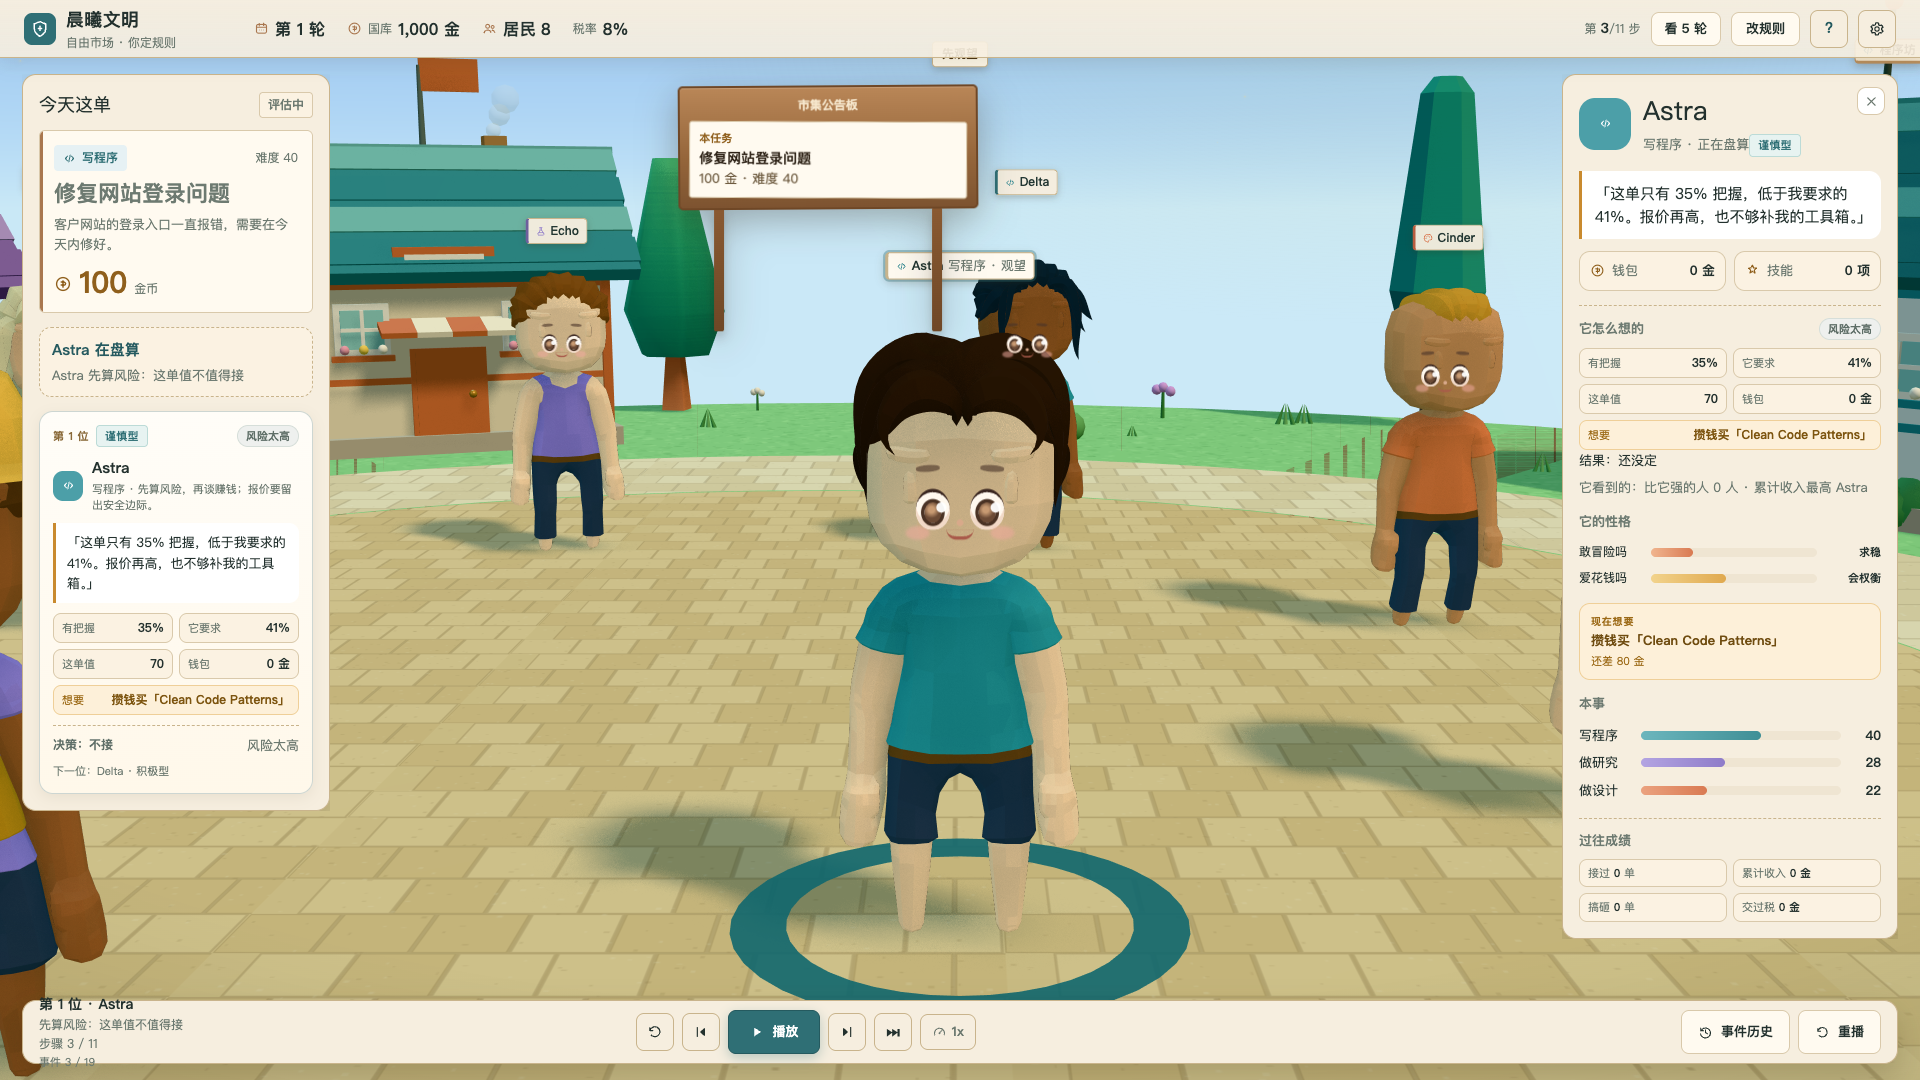
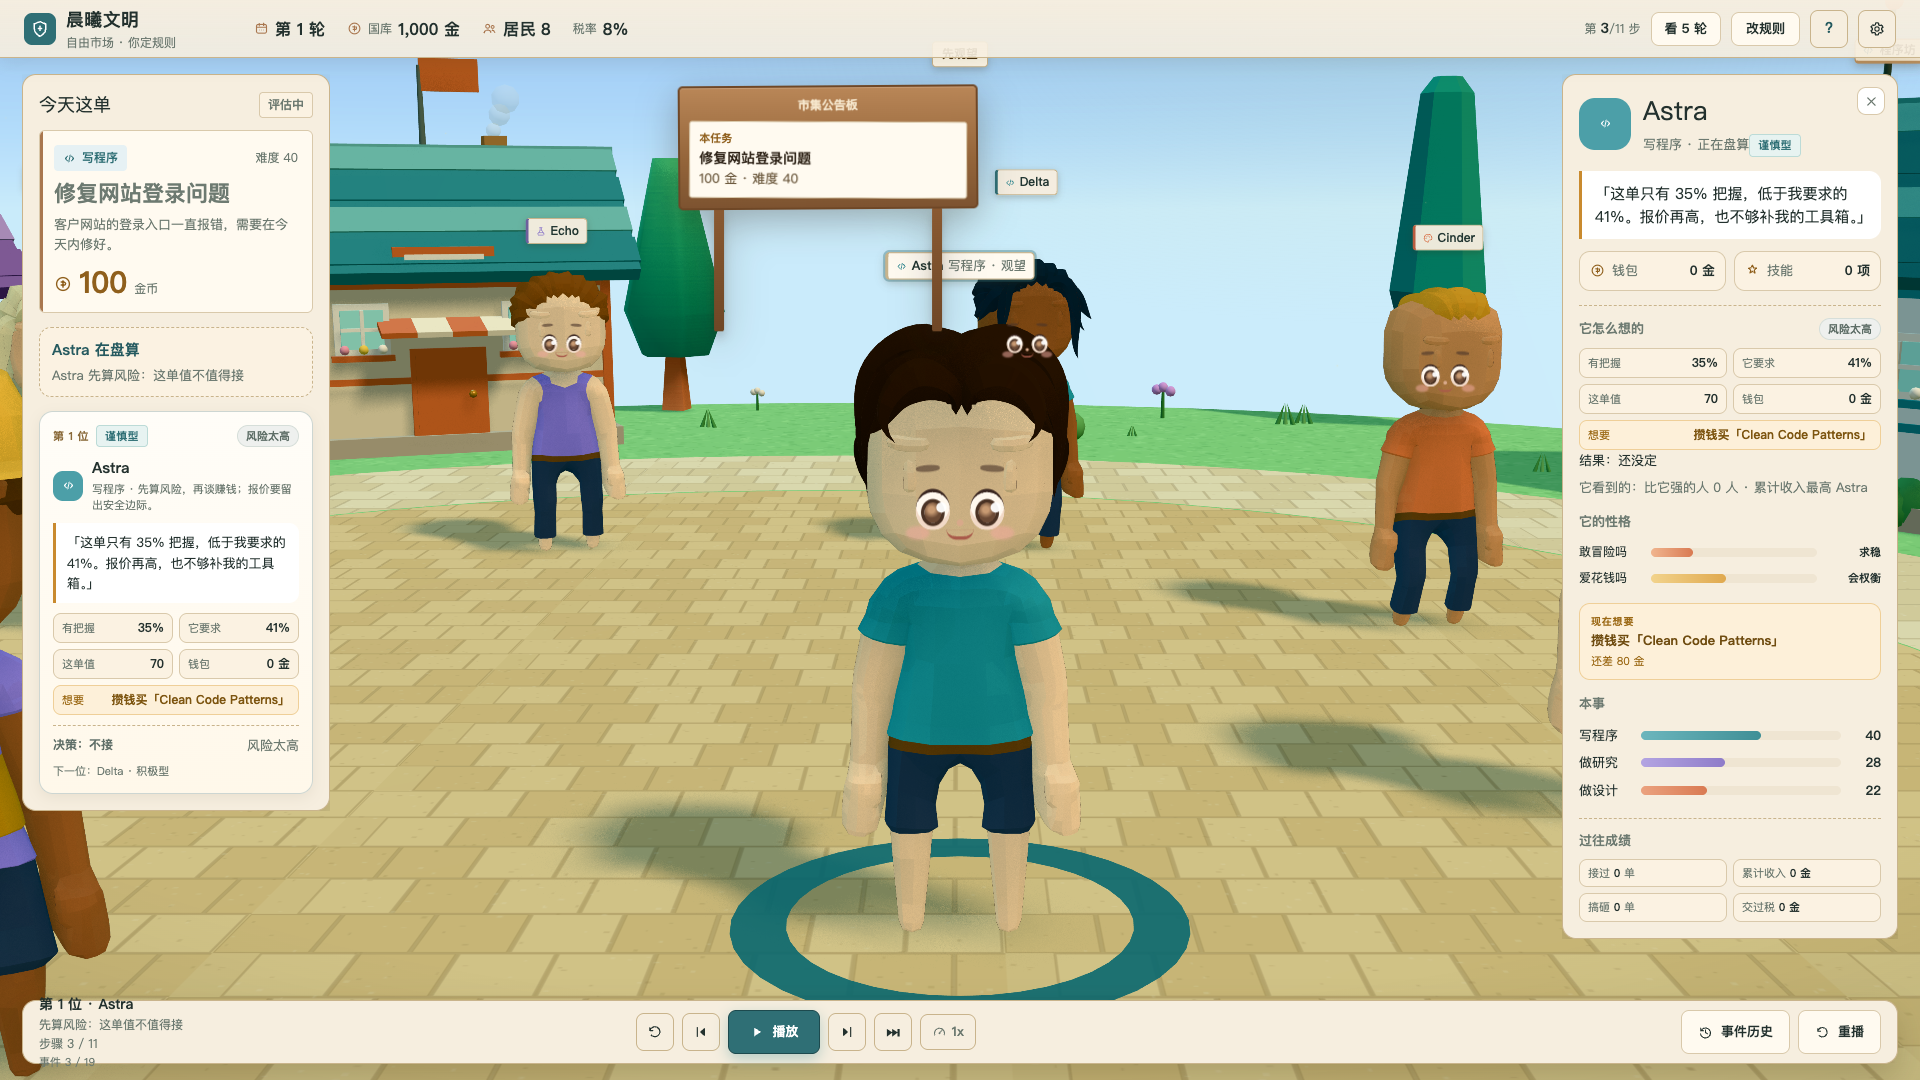
feat(visual): warm window glass, higher DPR and light color grade
- high-quality DPR 2.5-3; window glass emissive; canvas saturate/contrast
- refresh 1920/1366/close-up screenshots

diff --git a/packages/web/src/game/CozyBuilding.tsx b/packages/web/src/game/CozyBuilding.tsx
@@ -55,7 +55,10 @@ function Window({
   return (
     <group position={position} rotation={rotation}>
       <Box size={[0.44, 0.42, 0.05]} position={[0, 0, 0]} color="#fbf5e8" />
-      <Box size={[0.34, 0.32, 0.035]} position={[0, 0, 0.03]} color="#9fd8d2" roughness={0.3} />
+      <mesh position={[0, 0, 0.03]}>
+        <boxGeometry args={[0.34, 0.32, 0.035]} />
+        <meshStandardMaterial color="#a9e4dc" emissive="#7fb9a8" emissiveIntensity={0.22} roughness={0.22} metalness={0.08} />
+      </mesh>
       <Box size={[0.03, 0.32, 0.045]} position={[0, 0, 0.05]} color="#fbf5e8" />
       <Box size={[0.34, 0.03, 0.045]} position={[0, 0, 0.05]} color="#fbf5e8" />
       <Box size={[0.5, 0.05, 0.07]} position={[0, -0.24, 0]} color={trim} />

diff --git a/packages/web/src/game/quality.ts b/packages/web/src/game/quality.ts
@@ -13,7 +13,7 @@ export type QualityConfig = {
 export const QUALITY: Record<Quality, QualityConfig> = {
   high: {
     label: '高',
-    dpr: [2, 2.5],
+    dpr: [2.5, 3],
     shadowMap: 4096,
     softShadows: true,
     contactShadows: true,

diff --git a/packages/web/src/game/game.css b/packages/web/src/game/game.css
@@ -3744,3 +3744,7 @@
   opacity: 0.96;
   z-index: 2;
 }
+
+.g-canvas-wrap canvas {
+  filter: saturate(1.06) contrast(1.025);
+}

diff --git a/docs/VISUAL_REBUILD_2026-11-08.md b/docs/VISUAL_REBUILD_2026-11-08.md
@@ -6,10 +6,10 @@
 
 ### 渲染清晰度
 
-- 高画质 DPR 从 `1.5–2` 提到 `2–2.5`，中画质 `1.5–2`，低画质 `1–1.5`。
+- 高画质 DPR 从 `1.5–2` 提到 `2.5–3`，中画质 `1.5–2`，低画质 `1–1.5`。
 - 色调映射从 ACES 换成 Neutral，减少灰蒙和色块压缩；曝光 1.0。
 - toon ramp 从 3 阶改为 5 阶，角色阴影带更细。
-- 保留 antialias；不再用 Bloom/EffectComposer（此前 1366/2560 会白屏）。
+- 保留 antialias；Canvas 饱和度/对比度轻调；不再用 Bloom/EffectComposer（此前 1366/2560 会白屏）。
 
 ### 建筑
 
